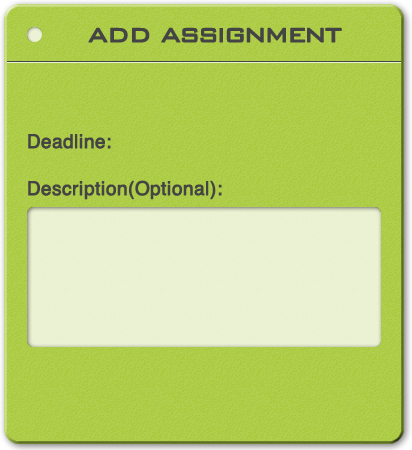
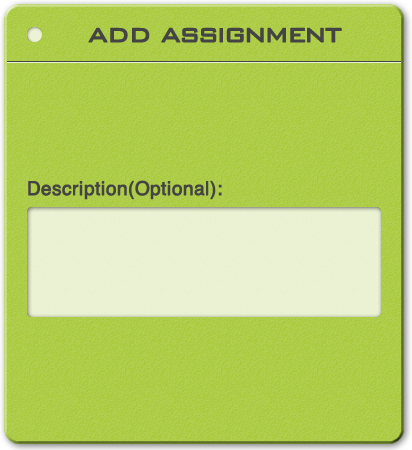
fix the ui of admin update page

Changed region(s): [[0.0583, 0.6844, 0.932, 0.7778], [0.0583, 0.28, 0.2621, 0.3422]]

diff --git a/DatabaseOperation/web/css/assignmentDisplay.less b/DatabaseOperation/web/css/assignmentDisplay.less
@@ -158,6 +158,15 @@ html{
         top:-428px;
         
         }
+.filename{
+position:relative;
+float:left;
+height:20px;
+width:200px;
+left:20px;
+top:70px;
 
+
+}
 			
 			
